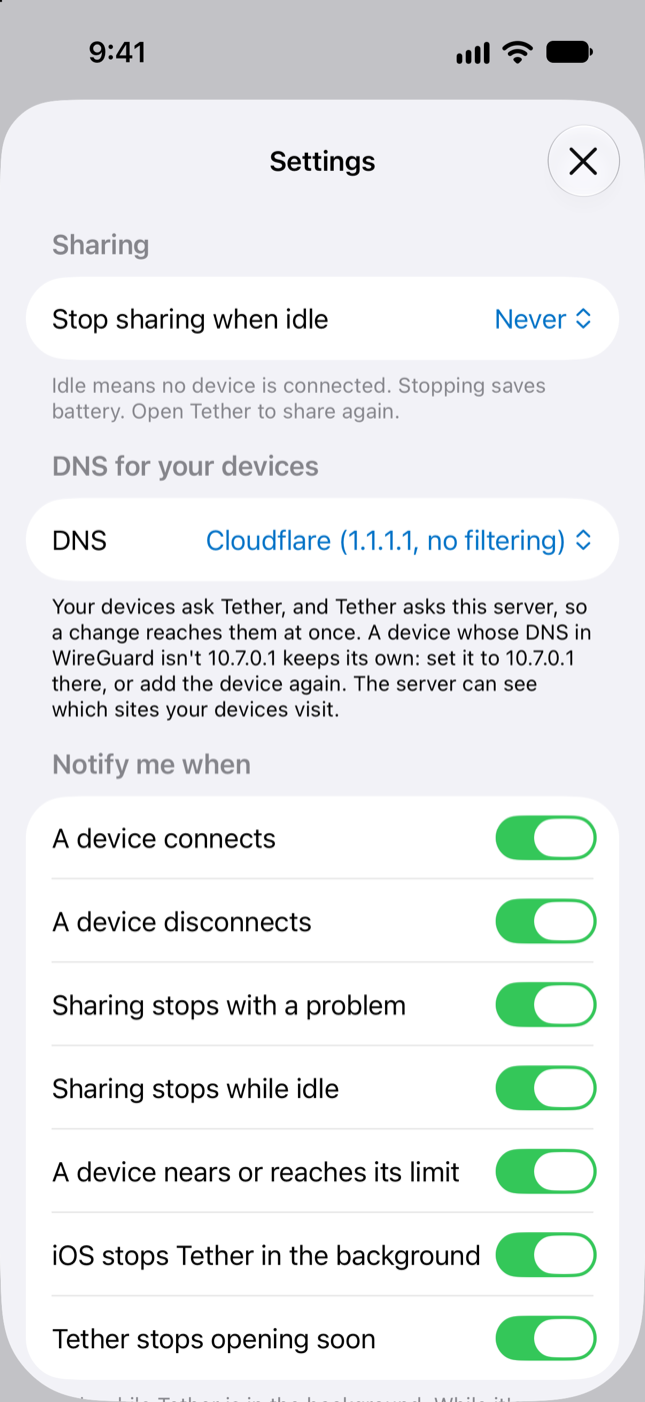
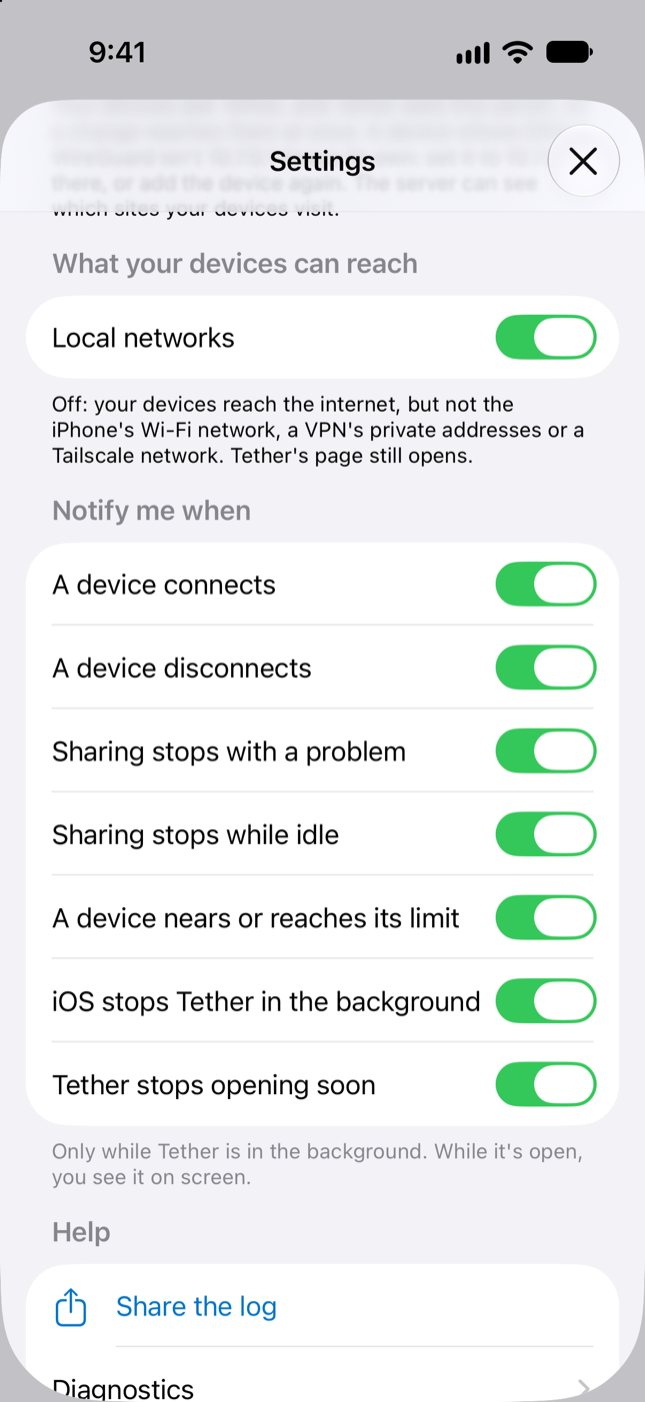
Remake the README screenshots for 1.13
The Add a device sheet took over 3 s to appear on a busy Mac, so the shot
showed the screen under it: wait 8 s. The VPN section pushed the notices
off the first Settings screen, so the notificationsScreen demo scrolls
them into view (Debug only).

diff --git a/Sources/SettingsView.swift b/Sources/SettingsView.swift
@@ -35,14 +35,20 @@ struct SettingsView: View {
 
     var body: some View {
         NavigationStack {
-            List {
-                sharing
-                vpn
-                newDevices
-                localNetworks
-                notices
-                help
-                about
+            ScrollViewReader { scroller in
+                List {
+                    sharing
+                    vpn
+                    newDevices
+                    localNetworks
+                    notices
+                    help
+                    about
+                }
+                #if DEBUG
+                // The notificationsScreen demo shows the notices, for the README screenshot.
+                .onAppear { if model.opensSettings { scroller.scrollTo(Self.noticesAnchor, anchor: .bottom) } }
+                #endif
             }
             .navigationTitle("Settings")
             .navigationBarTitleDisplayMode(.inline)
@@ -207,6 +213,9 @@ struct SettingsView: View {
         .onChange(of: localNetworksAllowed) { model.localNetworksChanged() }
     }
 
+    /// Where the notificationsScreen demo scrolls to: the notices end at the bottom, so their header shows too.
+    private static let noticesAnchor = "notices"
+
     @ViewBuilder private var notices: some View {
         if model.noticePermission == .notAsked {
             Section {
@@ -241,6 +250,7 @@ struct SettingsView: View {
         } footer: {
             Text("Only while Tether is in the background. While it's open, you see it on screen.")
                 .accessibilityIdentifier("notices.footer")
+                .id(Self.noticesAnchor)
         }
     }
 }
